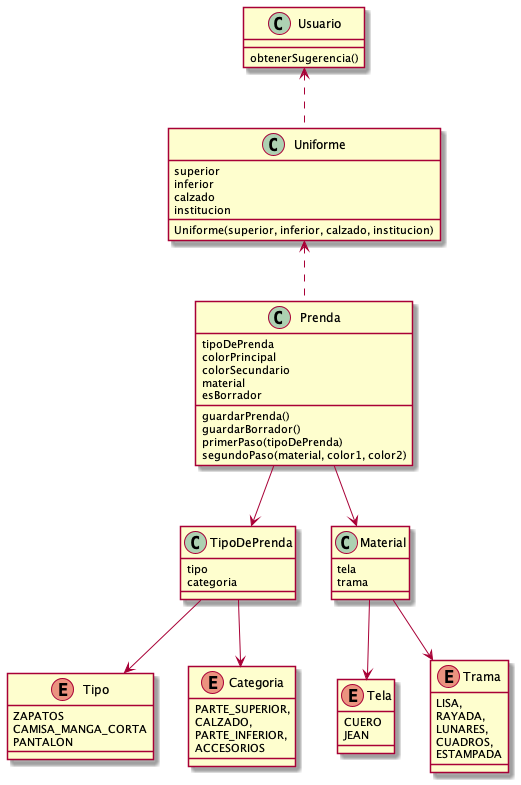
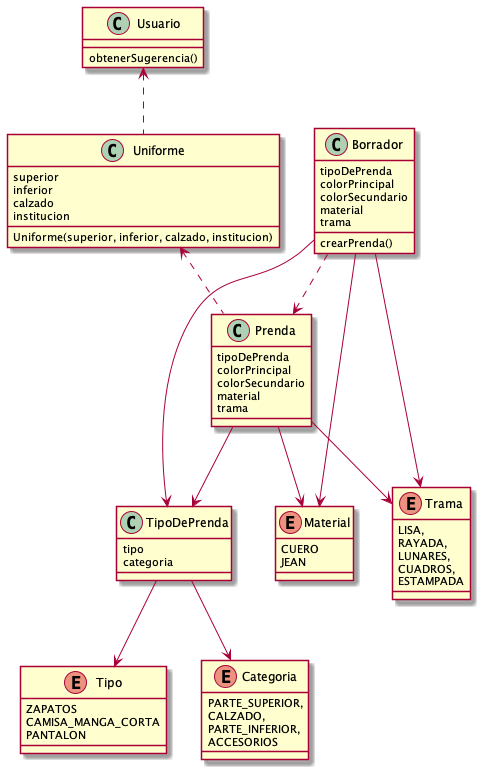
Fixes after feedback

diff --git a/src/main/java/Prenda/Prenda.java b/src/main/java/Prenda/Prenda.java
@@ -1,77 +1,30 @@
 package Prenda;
 
 import Prenda.Material.Material;
+import Prenda.Material.Trama;
 import Prenda.TipoDePrenda.TipoDePrenda;
 
-import java.util.Objects;
-
 public class Prenda {
-    private TipoDePrenda tipoDePrenda;
-    private String colorPrincipal;
-    private String colorSecundario;
-    private Material material;
-    private boolean esBorrador;
+    private final TipoDePrenda tipoDePrenda;
+    private final String colorPrincipal;
+    private final String colorSecundario;
+    private final Material material;
+    private final Trama trama;
 
-    public Prenda(TipoDePrenda tipoDePrenda, String colorPrincipal, Material material) {
-        this.tipoDePrenda = checkNonNullTipoDePrenda(tipoDePrenda);
-        this.colorPrincipal = checkNonNullColorPrincipal(colorPrincipal);
-        this.colorSecundario = null;
-        this.material = checkNonNullMaterial(material);
-        this.esBorrador = false;
-    }
-
-    public Prenda(TipoDePrenda tipoDePrenda, String colorPrincipal, String colorSecundario, Material material) {
-        this.tipoDePrenda = checkNonNullTipoDePrenda(tipoDePrenda);
-        this.colorPrincipal = checkNonNullColorPrincipal(colorPrincipal);
-        this.colorSecundario = colorSecundario;
-        this.material = checkNonNullMaterial(material);
-        this.esBorrador = false;
-    }
-
-    public void primerPaso(TipoDePrenda tipoDePrenda) {
+    public Prenda(TipoDePrenda tipoDePrenda, String colorPrincipal, Material material, Trama trama) {
         this.tipoDePrenda = tipoDePrenda;
-        this.esBorrador = true;
+        this.colorPrincipal = colorPrincipal;
+        this.trama = trama;
+        this.colorSecundario = null;
+        this.material = material;
     }
 
-    public void segundoPaso(Material material, String colorPrincipal, String colorSecundario) {
-        this.material = material;
+    public Prenda(TipoDePrenda tipoDePrenda, String colorPrincipal, String colorSecundario, Material material, Trama trama) {
+        this.tipoDePrenda = tipoDePrenda;
         this.colorPrincipal = colorPrincipal;
         this.colorSecundario = colorSecundario;
-        this.esBorrador = true;
-    }
-
-    public void guardarBorrador(){
-        // Guardaría en la BD el Borrador de la prenda
-    }
-
-    public void guardarPrenda() {
-        chequearPrendaValida(this);
-        this.esBorrador = false;
-        // Al tener el chequeo de nulls, no se requiere lanzar excepciones adicionales.
-        // => Guardar la prenda valida en la base de datos
-    }
-
-    private void chequearPrendaValida(Prenda prenda) {
-        if(prenda.getColorPrincipal().isEmpty())
-            throw new RuntimeException("El color principal debe ser elegido");
-        if(prenda.getTipoDePrenda().getCategoria() == null)
-            throw new RuntimeException("La categoría no puede ser nula");
-        if(prenda.getTipoDePrenda().getTipo() == null)
-            throw new RuntimeException("La tipo de prenda no puede ser nula");
-        if(prenda.getMaterial().getTrama() == null)
-            throw new RuntimeException("La trama no puede ser nula");
-    }
-
-    private Material checkNonNullMaterial(Material material) {
-        return Objects.requireNonNull(material, "Debe seleccionar un material");
-    }
-
-    private String checkNonNullColorPrincipal(String colorPrincipal) {
-        return Objects.requireNonNull(colorPrincipal, "Debe seleccionar un color principal");
-    }
-
-    private TipoDePrenda checkNonNullTipoDePrenda(TipoDePrenda tipoDePrenda) {
-        return Objects.requireNonNull(tipoDePrenda, "Debe seleccionar un tipo de prenda");
+        this.material = material;
+        this.trama = trama;
     }
 
     public TipoDePrenda getTipoDePrenda() {

diff --git a/src/main/java/Prenda/Borrador.java b/src/main/java/Prenda/Borrador.java
@@ -1,0 +1,57 @@
+package Prenda;
+
+import Prenda.Material.Material;
+import Prenda.Material.Trama;
+import Prenda.TipoDePrenda.TipoDePrenda;
+
+import java.util.Objects;
+
+public class Borrador {
+    private TipoDePrenda tipoDePrenda;
+    private String colorPrincipal;
+    private String colorSecundario;
+    private Material material;
+    private Trama trama = Trama.LISA;
+
+    public Borrador configurarTipoDePrenda(TipoDePrenda tipoDePrenda){
+        this.tipoDePrenda = Objects.requireNonNull(tipoDePrenda, "Debe seleccionar un tipo de prenda");
+        return this;
+    }
+
+    public Borrador configurarMaterial(Material material){
+        this.material = Objects.requireNonNull(material, "Debe seleccionar un material");;
+        return this;
+    }
+
+    public Borrador configurarColorPrincipal(String colorPrincipal){
+        this.colorPrincipal = Objects.requireNonNull(colorPrincipal, "Debe seleccionar un color principal");
+        return this;
+    }
+
+    public Borrador configurarColorSecundario(String colorSecundario){
+        this.colorSecundario = colorSecundario;
+        return this;
+    }
+
+    public Borrador configurarTrama(Trama trama){
+        this.trama = trama == null ? Trama.LISA : trama;
+        return this;
+    }
+
+    private Prenda crearPrenda() {
+        chequearPrendaValida();
+        return new Prenda(this.tipoDePrenda, this.colorPrincipal, this.colorSecundario, this.material, this.trama);
+    }
+
+    private void chequearPrendaValida() {
+        if(this.tipoDePrenda.getCategoria() == null)
+            throw new RuntimeException("La categoría no puede ser nula");
+        if(this.colorPrincipal.isEmpty())
+            throw new RuntimeException("El color principal debe ser elegido");
+        if(this.tipoDePrenda.getTipo() == null)
+            throw new RuntimeException("La tipo de prenda no puede ser nula");
+        if(this.material == null)
+            throw new RuntimeException("La trama no puede ser nula");
+    }
+
+}

diff --git a/src/main/java/Prenda/Material/Material.java b/src/main/java/Prenda/Material/Material.java
@@ -1,30 +1,6 @@
 package Prenda.Material;
 
-import java.util.Objects;
-
-public class Material {
-    private Trama trama;
-    private Tela tela;
-
-    public Material(Tela tela) {
-        this.trama = Trama.LISA;
-        this.tela = checkNonNullTela(tela);
-    }
-
-    public Material(Trama trama, Tela tela) {
-        this.trama = trama == null ? Trama.LISA : trama;
-        this.tela = checkNonNullTela(tela);
-    }
-
-    private Tela checkNonNullTela(Tela tela) {
-        return Objects.requireNonNull(tela, "Debe especificar el tipo de tela");
-    }
-
-    public Trama getTrama() {
-        return trama;
-    }
-
-    public Tela getTela() {
-        return tela;
-    }
+public enum Material {
+    CUERO,
+    JEAN
 }

diff --git a/src/main/java/Prenda/RepositorioDePrendas.java b/src/main/java/Prenda/RepositorioDePrendas.java
@@ -1,0 +1,15 @@
+package Prenda;
+
+import java.util.List;
+
+public class RepositorioDePrendas {
+    private List<Prenda> prendas;
+
+    public List<Prenda> getPrendas() {
+        return prendas;
+    }
+
+    public void agregarPrenda(Prenda prenda){
+        this.prendas.add(prenda);
+    }
+}
